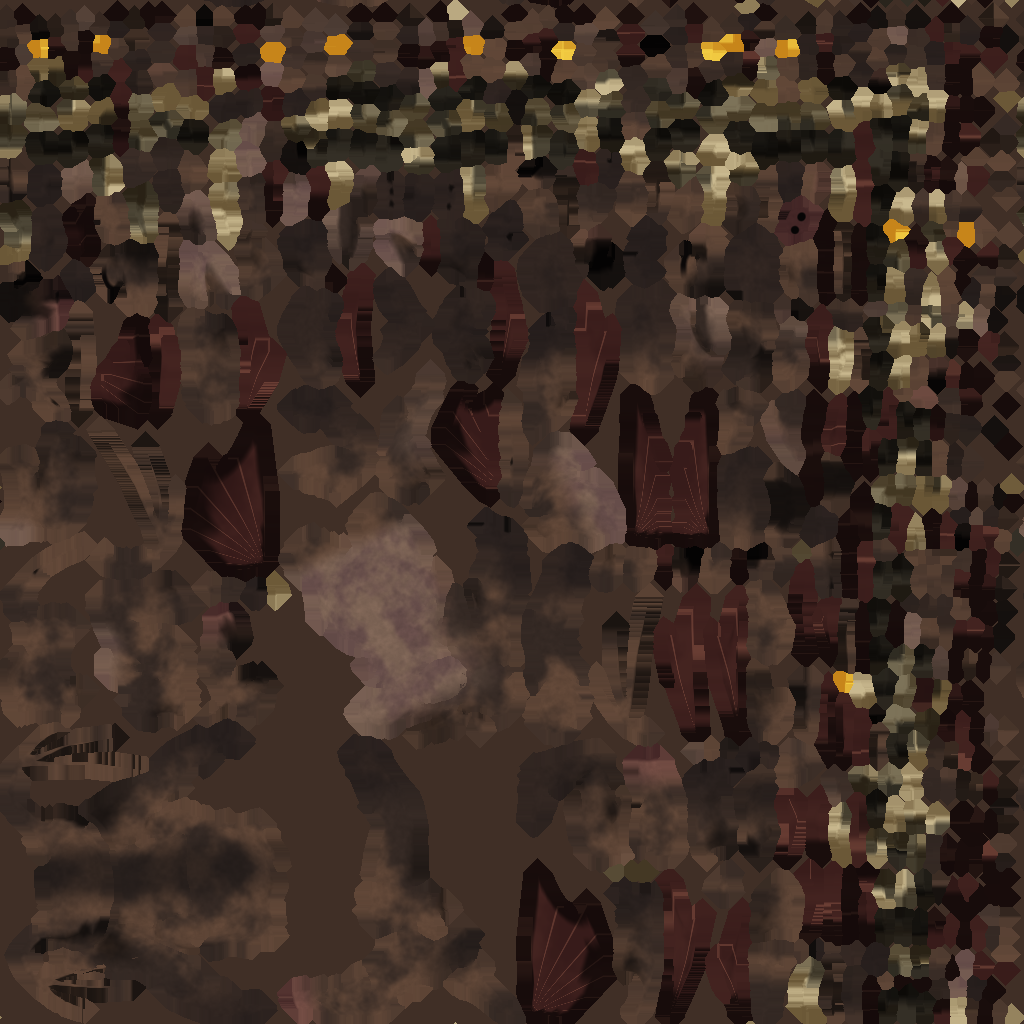
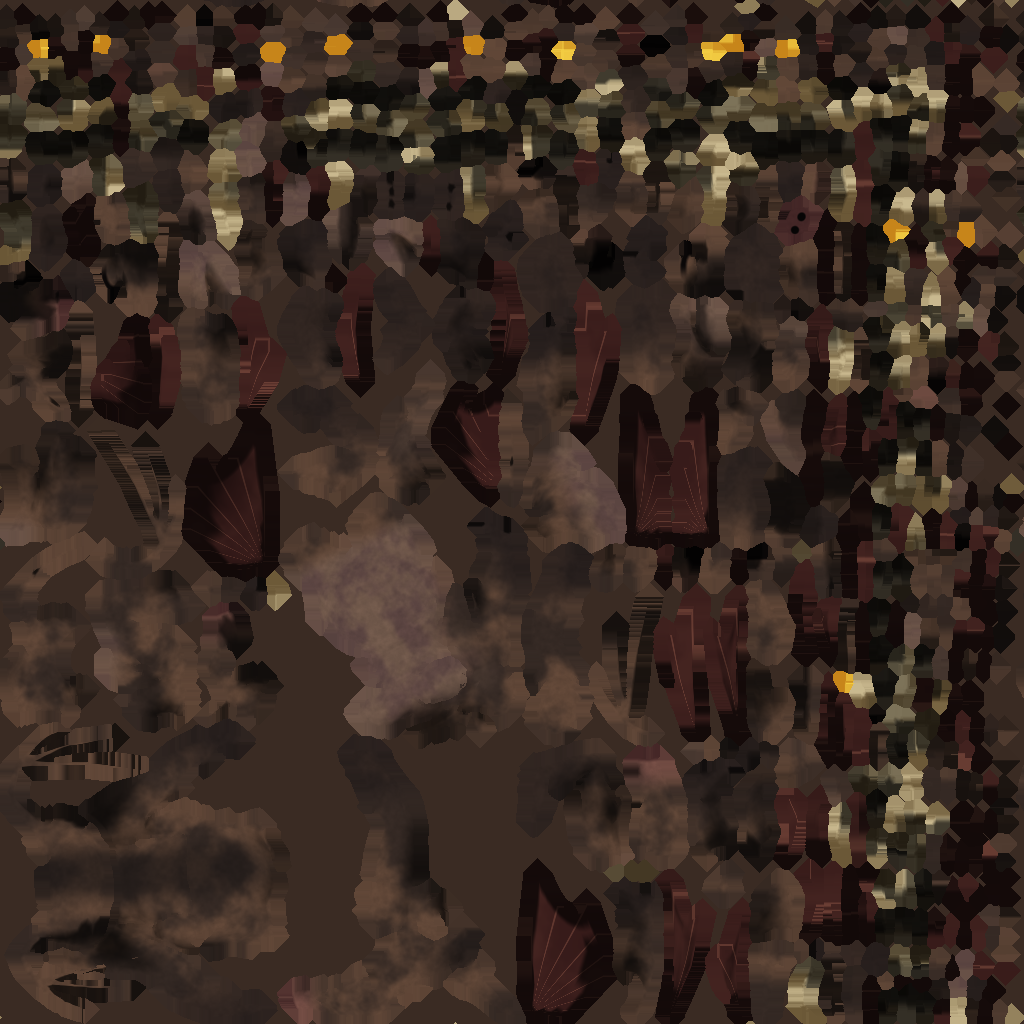
R7 models: deepen crease shading and soften flesh values; fixed-bearing torso-framed motion clips, surviving attack target, one-frame self-shadow diagnostic

diff --git a/src/KingmakerGunslinger/RuntimeTesting/RuntimeTestRunner.SummonPlaytestR7Models.cs b/src/KingmakerGunslinger/RuntimeTesting/RuntimeTestRunner.SummonPlaytestR7Models.cs
@@ -89,6 +89,7 @@ namespace KingmakerGunslinger.RuntimeTesting
             internal void ShowBefore() { _renderer.sharedMesh = _before; _material.SetTexture(R7MainTexture, _beforeAlbedo); }
             internal void ShowCurrent() { _renderer.sharedMesh = _current; _material.SetTexture(R7MainTexture, _currentAlbedo); }
             internal bool CurrentShown => _renderer != null && ReferenceEquals(_renderer.sharedMesh, _current);
+            internal UnityEngine.Rendering.ShadowCastingMode ShadowMode { get { return _renderer.shadowCastingMode; } set { _renderer.shadowCastingMode = value; } }
 
             public void Dispose()
             {
@@ -132,13 +133,15 @@ namespace KingmakerGunslinger.RuntimeTesting
 
         private static float R7Number(string value) { return float.Parse(value, System.Globalization.CultureInfo.InvariantCulture); }
 
-        private IEnumerable<int> R7Motion(UnitEntityData unit, UnitEntityData hostile, R7Model model, string state, string scene, Vector3 start, Vector3 target, JObject row)
+        private IEnumerable<int> R7Motion(UnitEntityData unit, UnitEntityData hostile, R7Model model, string state, string scene, Vector3 start, Vector3 target, Vector3 bearing, JObject row)
         {
-            Func<Bounds> subject = () => R6RenderBounds(unit);
+            // One fixed bearing and torso-centred framing, so both exports are
+            // filmed by the same camera path at a readable size.
+            Func<Bounds> subject = () => R7BoneBounds(unit, "Torso_Upper", 1.2f);
             PlaceExpandedSummoningUnit(unit, start);
             foreach (int step in R6Wait(14)) yield return step;
             string prefix = "r7-" + model.Key + "-" + scene + "-" + state + "-";
-            using (var clip = new R6Clip(_request.EvidenceDirectory, prefix + "idle", subject))
+            using (var clip = new R6Clip(_request.EvidenceDirectory, prefix + "idle", subject, bearing))
                 for (int shot = 0; shot < 24; shot++)
                 { clip.Shot(R6AnimationState(unit)); foreach (int step in R6Wait(2)) yield return step; }
 
@@ -149,7 +152,7 @@ namespace KingmakerGunslinger.RuntimeTesting
             if (started)
             {
                 unit.Commands.Run(move);
-                using (var clip = new R6Clip(_request.EvidenceDirectory, prefix + "move", subject))
+                using (var clip = new R6Clip(_request.EvidenceDirectory, prefix + "move", subject, bearing))
                     for (int frame = 0; frame < 150 && !move.IsFinished; frame++)
                     {
                         peak = Math.Max(peak, unit.View.MovementAgent.Velocity.magnitude);
@@ -168,7 +171,7 @@ namespace KingmakerGunslinger.RuntimeTesting
             hostile.Descriptor.Damage = 0;
             var attack = new UnitAttack(hostile);
             unit.Commands.Run(attack);
-            using (var clip = new R6Clip(_request.EvidenceDirectory, prefix + "attack", subject))
+            using (var clip = new R6Clip(_request.EvidenceDirectory, prefix + "attack", subject, bearing))
             {
                 int after = 0;
                 for (int frame = 0; frame < 170 && after < 14; frame++)
@@ -207,6 +210,19 @@ namespace KingmakerGunslinger.RuntimeTesting
                 var after = new JObject(); var before = new JObject();
                 stills["after"] = after; stills["before"] = before;
                 foreach (int step in R7Stills(unit, model, "after", scene, after)) yield return step;
+                // Diagnostic for small bright patches in creases: the first
+                // detail again, with this body casting no shadow onto itself.
+                string[] first = model.Details[0];
+                float firstRadius = R7Number(first[2]);
+                UnityEngine.Rendering.ShadowCastingMode shadow = swap.ShadowMode;
+                swap.ShadowMode = UnityEngine.Rendering.ShadowCastingMode.Off;
+                try
+                {
+                    using (var clip = new R6Clip(_request.EvidenceDirectory, "r7-" + model.Key + "-" + scene + "-diagnostic-noselfshadow-" + first[0],
+                        () => R7BoneBounds(unit, first[1], firstRadius), unit.View.transform.rotation * new Vector3(R7Number(first[3]), R7Number(first[4]), R7Number(first[5])).normalized, firstRadius * unit.View.transform.lossyScale.y))
+                        clip.Shot(new JObject { ["state"] = "diagnostic-no-self-shadow" });
+                }
+                finally { swap.ShadowMode = shadow; }
                 swap.ShowBefore();
                 foreach (int step in R6Wait(4)) yield return step;
                 foreach (int step in R7Stills(unit, model, "before", scene, before)) yield return step;
@@ -214,9 +230,10 @@ namespace KingmakerGunslinger.RuntimeTesting
 
                 var motionAfter = new JObject(); var motionBefore = new JObject();
                 row["motionAfter"] = motionAfter; row["motionBefore"] = motionBefore;
-                foreach (int step in R7Motion(unit, hostile, model, "after", scene, start, target, motionAfter)) yield return step;
+                Vector3 bearing = unit.View.transform.rotation * new Vector3(.55f, .32f, .78f).normalized;
+                foreach (int step in R7Motion(unit, hostile, model, "after", scene, start, target, bearing, motionAfter)) yield return step;
                 swap.ShowBefore();
-                foreach (int step in R7Motion(unit, hostile, model, "before", scene, start, target, motionBefore)) yield return step;
+                foreach (int step in R7Motion(unit, hostile, model, "before", scene, start, target, bearing, motionBefore)) yield return step;
                 swap.ShowCurrent();
                 bool shown = swap.CurrentShown;
                 bool stillsFramed = new[] { after, before }.All(values => values.Properties().Where(value => value.Name != "party").All(value => (bool)value.Value));
@@ -246,6 +263,8 @@ namespace KingmakerGunslinger.RuntimeTesting
             Vector3 centre = fixture.Caster.Position;
             UnitEntityData hostile = outdoor ? fixture.Hostile : null;
             Vector3? hostileHome = hostile?.Position;
+            int? hostileHitPoints = hostile == null ? (int?)null : hostile.Descriptor.Stats.HitPoints.BaseValue;
+            if (hostile != null) hostile.Descriptor.Stats.HitPoints.BaseValue = 100000;
             int priorCapture = Time.captureFramerate;
             Func<Vector3, Vector3> ground = value => ObstacleAnalyzer.GetNearestNode(value).clampedPosition;
             try
@@ -285,7 +304,7 @@ namespace KingmakerGunslinger.RuntimeTesting
                         if (unit.CombatState.IsInCombat) unit.CombatState.LeaveCombat();
                     }
                 });
-                restore("hostile", () => { if (hostileHome.HasValue && !fixture.Hostile.Destroyed) PlaceExpandedSummoningUnit(fixture.Hostile, hostileHome.Value); });
+                restore("hostile", () => { if (hostileHome.HasValue && !fixture.Hostile.Destroyed) { fixture.Hostile.Descriptor.Stats.HitPoints.BaseValue = hostileHitPoints.Value; fixture.Hostile.Descriptor.Damage = 0; PlaceExpandedSummoningUnit(fixture.Hostile, hostileHome.Value); } });
                 PlaceExpandedSummoningUnit(fixture.Caster, centre);
                 DisposeExpandedSummoningUnits(fixture.Created, owned.Where(value => !value.Destroyed).ToArray());
                 Sprint25Check("r7-owned-state-restored", errors.Count == 0 && Time.captureFramerate == priorCapture,

diff --git a/assets-source/original-models/sprint38-glabrezu/generate_sprint38_glabrezu.py b/assets-source/original-models/sprint38-glabrezu/generate_sprint38_glabrezu.py
@@ -254,8 +254,8 @@ def colour(p, n, region, cavity):
     # Paler chest and abdomen so the small arms' roots read against the torso.
     chest = bake.smooth(-.10, .55, n[:, 1]) * bake.smooth(.92, 1.06, z) * \
         (1 - bake.smooth(1.56, 1.72, z)) * (1 - bake.smooth(.26, .44, np.abs(x)))
-    flesh = bake.mix(bake.rgb((.520, .330, .260), count),
-                     bake.rgb((.430, .245, .205), count),
+    flesh = bake.mix(bake.rgb((.440, .275, .220), count),
+                     bake.rgb((.370, .210, .175), count),
                      bake.smooth(.35, .70, surface.fbm(p, 12.0, 91)))
     skin = bake.mix(hide, flesh, chest * .90)
     # Burned-dark hands, feet and small-arm tips fade out of the hide.
@@ -293,7 +293,7 @@ def colour(p, n, region, cavity):
     result = np.where((region == bake.LIMBS)[..., None], chitin, result)
     result = np.where((region == bake.BEAK)[..., None], horn, result)
     result = np.where((region == bake.CREST)[..., None], eye, result)
-    shade = .38 + .62 * bake.smooth(.12, .78, cavity)
+    shade = .32 + .68 * bake.smooth(.30, .90, cavity)
     shade = np.where(region == bake.CREST, 1.0, shade)
     return result * shade[..., None]
 

diff --git a/assets-source/original-models/sprint39-nalfeshnee/generate_sprint39_nalfeshnee.py b/assets-source/original-models/sprint39-nalfeshnee/generate_sprint39_nalfeshnee.py
@@ -303,8 +303,8 @@ def colour(p, n, region, cavity):
     # Sagging belly, chest and inner arms fade to a dusty, bruised flesh.
     front = bake.smooth(-.15, .55, n[:, 1]) * bake.smooth(.04, .26, y)
     gut = front * bake.smooth(.50, .62, z) * (1 - bake.smooth(1.38, 1.60, z))
-    flesh = bake.mix(bake.rgb((.505, .405, .345), count),
-                     bake.rgb((.405, .305, .295), count),
+    flesh = bake.mix(bake.rgb((.450, .355, .300), count),
+                     bake.rgb((.360, .270, .260), count),
                      bake.smooth(.35, .70, surface.fbm(p, 9.0, 37)))
     skin = bake.mix(hide, flesh, gut * .92)
     # Darken toward hands and feet so the extremities separate from the gut.
@@ -354,7 +354,7 @@ def colour(p, n, region, cavity):
     result = np.where((region == bake.CREST)[..., None], eye, result)
     # Baked cavity: the folds, armpits and neck crease carry the form even
     # under the game's flat summon lighting. Eyes keep their value.
-    shade = .38 + .62 * bake.smooth(.12, .78, cavity)
+    shade = .32 + .68 * bake.smooth(.30, .90, cavity)
     shade = np.where(region == bake.CREST, 1.0, shade)
     return result * shade[..., None]
 

diff --git a/assets-source/original-models/sprint39-nalfeshnee/SOURCE.md b/assets-source/original-models/sprint39-nalfeshnee/SOURCE.md
@@ -6,8 +6,8 @@ Generation stays the existing Blender 4.5.10 generator interface with `PYTHONHAS
 
 | Current export | Vertices / triangles (or size) | SHA-256 |
 | --- | --- | --- |
[4 lines of base64/hex data omitted]
 
 Pre-R7 exports are retained at commit `70d44c8be7` and are not packaged.
 

diff --git a/assets-source/original-models/sprint38-glabrezu/SOURCE.md b/assets-source/original-models/sprint38-glabrezu/SOURCE.md
@@ -6,8 +6,8 @@ Generation stays the existing Blender 4.5.10 generator interface with `PYTHONHAS
 
 | Current export | Vertices / triangles (or size) | SHA-256 |
 | --- | --- | --- |
[4 lines of base64/hex data omitted]
 
 Pre-R7 exports are retained at commit `70d44c8be7` and are not packaged.
 
